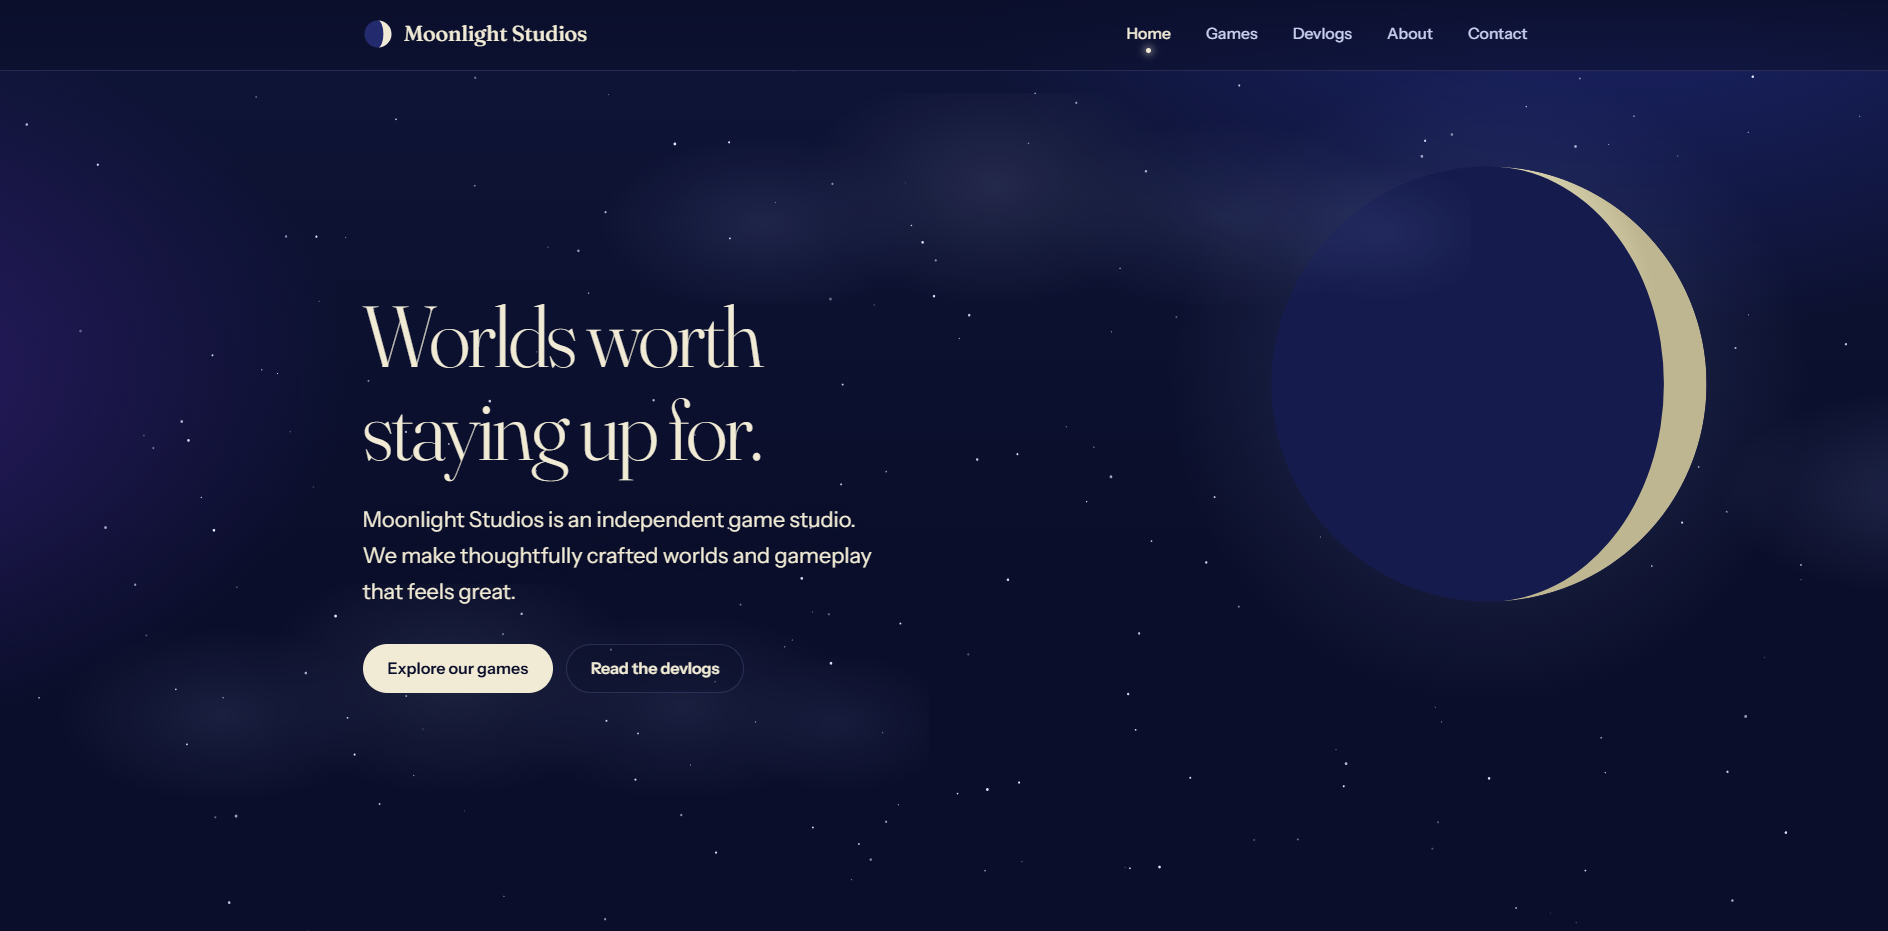
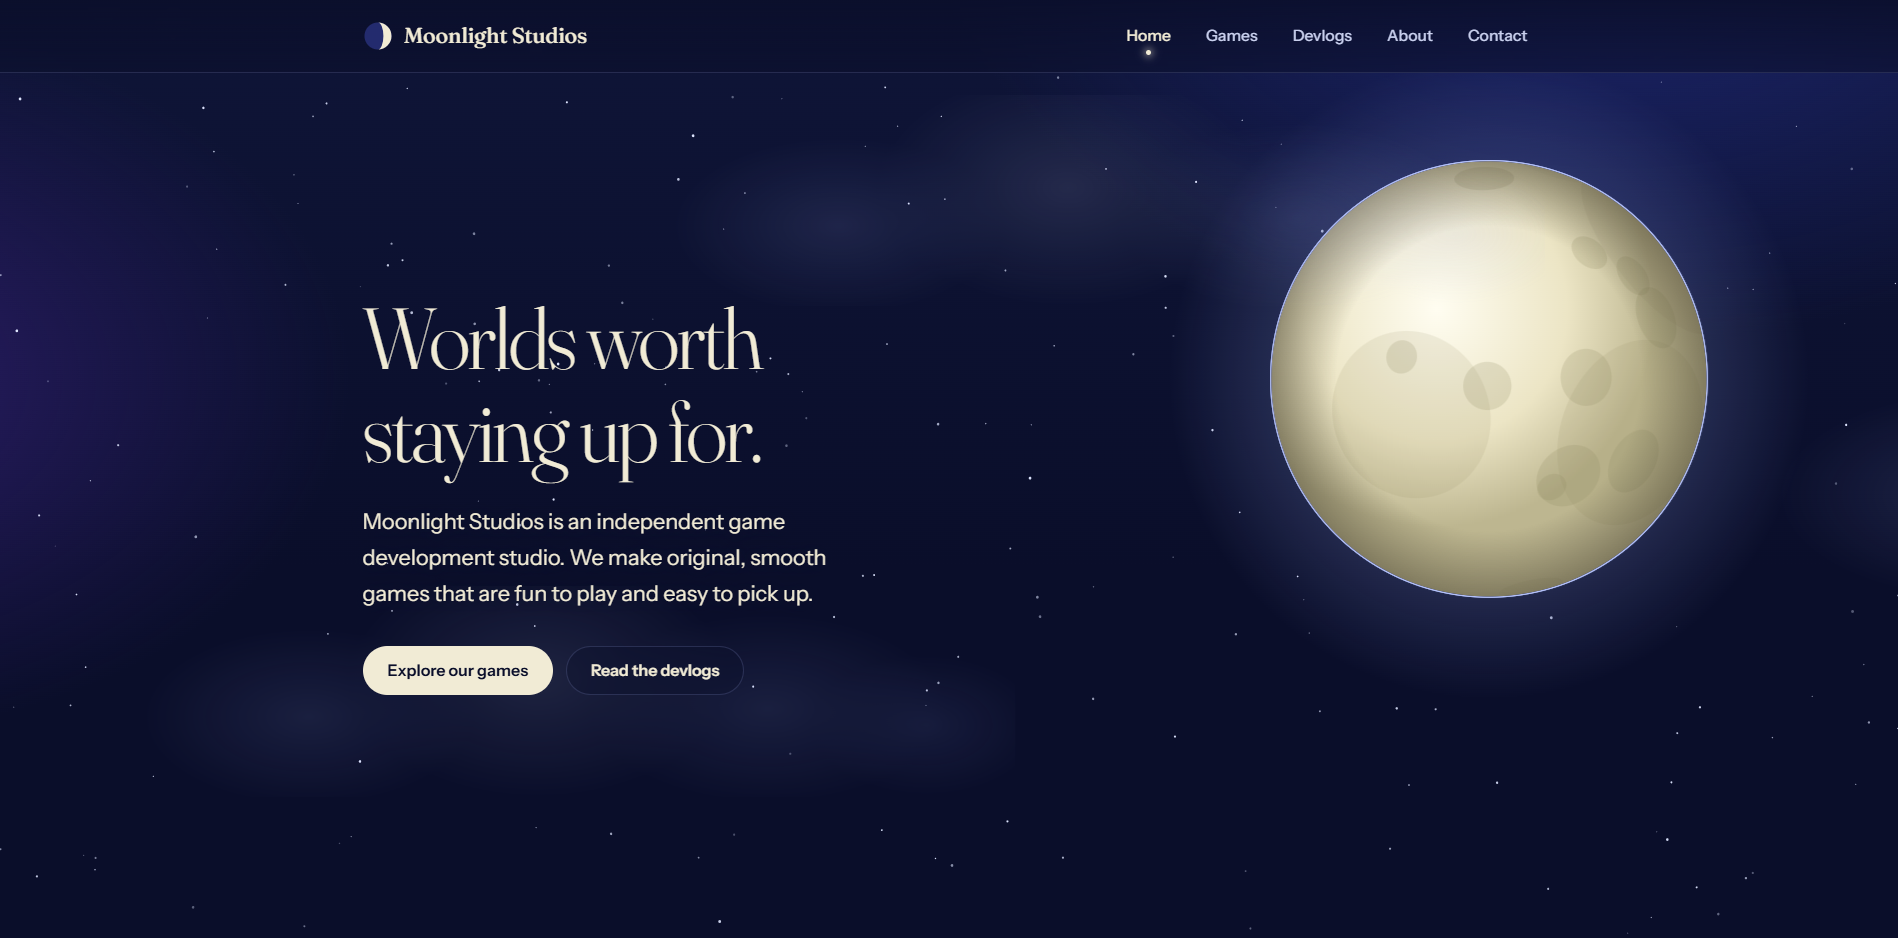
Add files via upload

diff --git a/privacy_policy.html b/privacy_policy.html
@@ -1,0 +1,71 @@
+<!doctype html>
+<html lang="en">
+<head>
+  <meta charset="utf-8">
+  <meta name="viewport" content="width=device-width, initial-scale=1, viewport-fit=cover">
+  <meta name="color-scheme" content="dark">
+  <title>Privacy Policy | Moonlight Studios</title>
+  <meta name="description" content="How Moonlight Studios handles your information.">
+  <meta name="theme-color" content="#0a0e2a">
+  <link rel="icon" href="images/logo.png">
+  <link rel="preconnect" href="https://fonts.googleapis.com">
+  <link rel="preconnect" href="https://fonts.gstatic.com" crossorigin>
+  <link href="https://fonts.googleapis.com/css2?family=Fraunces:ital,opsz,wght@0,9..144,300..700;1,9..144,300..700&family=Instrument+Sans:wght@400..700&display=swap" rel="stylesheet">
+  <link rel="stylesheet" href="css/style.css">
+</head>
+<body data-page="legal">
+  <main id="app">
+    <div class="container page-intro">
+      <h1>Privacy Policy</h1>
+      <p>Last updated: October 22, 2026</p>
+    </div>
+    <section class="section-tight container">
+      <article class="article" style="margin-left:0">
+        <p>This policy explains what information Moonlight Studios ("we", "us") collects through moonlightstudios.net, and what we do with it. We keep it short because we collect very little.</p>
+
+        <h2>What we collect</h2>
+        <p><strong>Messages you send us.</strong> If you use the contact form, we receive the name, email address, topic and message you type in. The form is handled by a service called Formspree, which passes your message on to our studio inbox.</p>
+        <p><strong>Basic technical data.</strong> Like every website, the servers that deliver this site (GitHub Pages) may log technical information such as your IP address, browser type and the pages requested. We don't have access to a personal profile built from this.</p>
+        <p>We don't run advertising, we don't sell your data, and we don't use analytics or tracking cookies on this site.</p>
+
+        <h2>How we use it</h2>
+        <ul>
+          <li>To read and reply to the messages you send us</li>
+          <li>To keep the website running and secure</li>
+        </ul>
+        <p>We don't use your email address for newsletters or marketing unless you clearly ask us to.</p>
+
+        <h2>Services that load on our pages</h2>
+        <ul>
+          <li><span><strong>Google Fonts</strong> loads the fonts on this site, so your browser connects to Google when a page opens.</span></li>
+          <li><span><strong>YouTube</strong> videos on game pages and devlogs use YouTube's privacy-enhanced mode. YouTube only gets involved if you press play.</span></li>
+          <li><span><strong>Formspree</strong> processes the contact form when you send a message.</span></li>
+          <li><span><strong>GitHub Pages</strong> hosts the website.</span></li>
+        </ul>
+        <p>These services have their own privacy policies, and we don't control how they handle data.</p>
+
+        <h2>Links to other sites</h2>
+        <p>Our pages link to itch.io, YouTube, Discord, X and other sites. Their privacy practices are their own. Please read their policies before you share personal information with them. When you play our games on itch.io, itch.io's policies apply to your account and downloads.</p>
+
+        <h2>How long we keep your messages</h2>
+        <p>We keep messages for as long as we need them to reply and to keep a record of the conversation. You can ask us to delete your message at any time.</p>
+
+        <h2>Your choices</h2>
+        <p>You can ask us what information we hold about you, ask us to correct it, or ask us to delete it. Use the <a href="contact/">contact page</a> and tell us what you'd like. Depending on where you live, you may have additional rights under local data protection law, and we will respect them.</p>
+
+        <h2>Children</h2>
+        <p>This site is not aimed at children under 13, and we don't knowingly collect personal information from them. If you think a child has sent us their details, contact us and we will delete them.</p>
+
+        <h2>Changes to this policy</h2>
+        <p>If we change this policy, we will update the date at the top of this page.</p>
+
+        <h2>Contact</h2>
+        <p>Questions about this policy? Reach us through the <a href="contact/">contact page</a>.</p>
+      </article>
+    </section>
+  </main>
+  <noscript><p style="padding:2rem;text-align:center">This site needs JavaScript turned on to show its menu and footer.</p></noscript>
+  <script src="js/data.js"></script>
+  <script src="js/main.js"></script>
+</body>
+</html>

diff --git a/terms_of_service.html b/terms_of_service.html
@@ -1,0 +1,63 @@
+<!doctype html>
+<html lang="en">
+<head>
+  <meta charset="utf-8">
+  <meta name="viewport" content="width=device-width, initial-scale=1, viewport-fit=cover">
+  <meta name="color-scheme" content="dark">
+  <title>Terms of Service | Moonlight Studios</title>
+  <meta name="description" content="The terms for using the Moonlight Studios website and games.">
+  <meta name="theme-color" content="#0a0e2a">
+  <link rel="icon" href="images/logo.png">
+  <link rel="preconnect" href="https://fonts.googleapis.com">
+  <link rel="preconnect" href="https://fonts.gstatic.com" crossorigin>
+  <link href="https://fonts.googleapis.com/css2?family=Fraunces:ital,opsz,wght@0,9..144,300..700;1,9..144,300..700&family=Instrument+Sans:wght@400..700&display=swap" rel="stylesheet">
+  <link rel="stylesheet" href="css/style.css">
+</head>
+<body data-page="legal">
+  <main id="app">
+    <div class="container page-intro">
+      <h1>Terms of Service</h1>
+      <p>Last updated: October 22, 2026</p>
+    </div>
+    <section class="section-tight container">
+      <article class="article" style="margin-left:0">
+        <p>Welcome to Moonlight Studios. By using moonlightstudios.net (the "site"), you agree to these terms. If you don't agree, please don't use the site.</p>
+
+        <h2>Using the site</h2>
+        <p>You can browse the site, read our devlogs and use links to our games for your own personal, non-commercial use. Please don't misuse the site: no attempts to break it, overload it, scrape it in bulk, or use it for anything illegal.</p>
+
+        <h2>Our games</h2>
+        <p>Our games are distributed through itch.io and other platforms. Your use of a game is governed by the page you download it from and by that platform's terms. Games are provided for your personal enjoyment and may contain bugs. We try to keep them polished, but we can't promise they will be error-free or work on every device.</p>
+
+        <h2>Our content</h2>
+        <p>The games, artwork, music, logos, text, screenshots and other material on this site belong to Moonlight Studios or are used with permission. You may not copy, sell or republish them without our written permission.</p>
+        <p>You are welcome to stream, record and share videos and screenshots of our games, including monetized ones, as long as you don't claim the game as your own. We love seeing that.</p>
+
+        <h2>Messages you send us</h2>
+        <p>When you contact us, you promise that the information you give is accurate and that your message doesn't break the law. Please don't send us spam, abuse, or material you don't have the right to share. We may ignore messages that do. Please also don't send game ideas or code you expect payment or credit for unless we've agreed on it first. We can't promise not to be working on something similar.</p>
+
+        <h2>Third-party links</h2>
+        <p>The site links to other sites, such as itch.io, YouTube, Discord and X. We don't control them and aren't responsible for what they contain or how they work.</p>
+
+        <h2>No warranties</h2>
+        <p>The site and its content are provided "as is" and "as available". We do our best to keep everything accurate and online, but we don't guarantee that the site will always be available, error-free or up to date.</p>
+
+        <h2>Limit of liability</h2>
+        <p>To the fullest extent the law allows, Moonlight Studios isn't liable for any indirect or consequential loss that comes from using the site or our games. Nothing in these terms limits any rights you have that can't legally be limited.</p>
+
+        <h2>Changes</h2>
+        <p>We may update these terms from time to time. The date at the top shows when they last changed, and continuing to use the site means you accept the new version.</p>
+
+        <h2>Privacy</h2>
+        <p>How we handle your information is explained in our <a href="privacy_policy.html">privacy policy</a>.</p>
+
+        <h2>Contact</h2>
+        <p>Questions about these terms? Reach us through the <a href="contact/">contact page</a>.</p>
+      </article>
+    </section>
+  </main>
+  <noscript><p style="padding:2rem;text-align:center">This site needs JavaScript turned on to show its menu and footer.</p></noscript>
+  <script src="js/data.js"></script>
+  <script src="js/main.js"></script>
+</body>
+</html>

diff --git a/about/index.html b/about/index.html
@@ -16,22 +16,22 @@
 <body data-page="about">
   <main id="app">
     <div class="container page-intro">
-      <h1>About the studio</h1>
+      <h1>About us</h1>
     </div>
 
     <section class="section-tight container">
-      <p class="lede">Moonlight Studios is a small independent game studio driven by a passion for making fun, memorable games.</p>
+      <p class="lede">We are a small indie team brought together by a shared love for making games.</p>
       <div class="prose" style="margin-top:2rem">
-        <p>We love experimenting with new ideas, refining every detail, and building experiences that players can enjoy. We make our games ourselves, and we write about how we make them in our <a class="text-link" href="../devlogs/">devlogs</a>.</p>
-        <p style="margin-top:1.1rem">Replace this paragraph with your own story: when the studio started, why you make games, and what you want players to feel.</p>
+        <p style="margin-top:1.1rem">Moonlight Studios started back in 2021. At the beginning, we were just testing out wild ideas, learning how to make games, and putting together small prototypes for game jams. That experimentation gave us the spark we needed, and we decided to form a real team. Shortly after, we released our first official title, <b>Super Pet Fighter.</b></p>
+        <p style="margin-top:1.1rem">As a young studio working with limited resources, we leaned heavily on passion, creativity, and steady learning. Over time, as our skills improved, our vision grew too. Today, we are tackling larger, more ambitious projects while staying true to what brought us together in the first place: making original, smooth games that players all over the world can pick up and enjoy.</p>
       </div>
     </section>
 
     <section class="section container" aria-labelledby="b-h">
       <h2 id="b-h" style="margin-bottom:2rem">How we make games</h2>
       <div class="beliefs">
-        <div><h3>Gameplay that feels great</h3><p>Controls and mechanics come first. If it isn't fun to pick up and play, nothing else matters.</p></div>
-        <div><h3>Details matter</h3><p>We keep refining until each trap, duel and screen does what it should.</p></div>
+        <div><h3>Gameplay comes first</h3><p>Controls and mechanics come first. If it isn't fun to pick up and play, nothing else matters.</p></div>
+        <div><h3>Details matter</h3><p>We keep refining until every trap, level and detail feels great.</p></div>
         <div><h3>Open about the process</h3><p>Every game has devlogs, so you can follow how it's made and tell us what you think.</p></div>
       </div>
     </section>
@@ -41,13 +41,6 @@
     </section>
 
     <section class="section container" aria-labelledby="t-h">
-      <h2 id="t-h" style="margin-bottom:1.6rem">The team</h2>
-      <div class="person">
-        <svg class="avatar" viewBox="0 0 20 20" aria-hidden="true"><circle cx="10" cy="10" r="10" fill="#232b6e"/><path d="M10 1A9 9 0 1 0 10 19A6 9 0 1 1 10 1Z" fill="#f1ebd5"/></svg>
-        <div><strong>Dimitrije</strong><span>Founder and developer</span></div>
-      </div>
-    </section>
-
     <section class="section-tight container">
       <div class="section-head"><h2>What we've made</h2><a class="text-link" href="../games/">Games page</a></div>
       <div class="game-grid" id="about-games"></div>
@@ -55,7 +48,7 @@
 
     <section class="section container">
       <div class="band">
-        <h2>Want to work with us, or just talk games?</h2>
+        <h2>Want to work with us or have a question?</h2>
         <a class="btn btn-moon" href="../contact/">Get in touch</a>
       </div>
     </section>

diff --git a/js/data.js b/js/data.js
@@ -38,7 +38,7 @@ const GAMES = [
     status: "In progress",
     statusKey: "progress",
     hue: 262,
-    tagline: "The action adventure, rebuilt from the ground up.",
+    tagline: "The action metroidvania,",
     short: "A fast-paced action adventure being rebuilt with improved gameplay, smoother mechanics and a fresh look.",
     description: [
       "A fast-paced action adventure currently being rebuilt from the ground up with improved gameplay, smoother mechanics, and a fresh new look.",
@@ -58,6 +58,7 @@ const GAMES = [
     cover: "images/games/wizardsbane/cover.png",
     hero: "images/games/wizardsbane/hero.png",
     logo: "images/games/wizardsbane/logo.png",
+    showcase: "images/games/wizardsbane/showcase.png",
     screenshots: [
       "images/games/wizardsbane/shot1.png",
       "images/games/wizardsbane/shot2.png",
@@ -94,6 +95,7 @@ const GAMES = [
     cover: "images/games/clonescape/cover.png",
     hero: "images/games/clonescape/hero.png",
     logo: "images/games/clonescape/logo.png",
+    showcase: "images/games/clonescape/hero.png",
     screenshots: [
       "images/games/clonescape/shot1.png",
       "images/games/clonescape/shot2.png",
@@ -162,18 +164,18 @@ const DEVLOGS = [
     slug: "welcome-to-the-new-site",
     game: "general",
     date: "2026-10-18",
-    title: "Welcome to the new Moonlight Studios site",
-    excerpt: "A new home for our games, and a place to follow along while we build them.",
+    title: "Welcome to the New Moonlight Studios Site!",
+    excerpt: "Welcome to the new home of Moonlight Studios! We built this website to bring everything we make into one place our games, our progress, and the stories behind how we build them.",
     cover: "images/devlogs/new_website_look.png",
     body: [
       { type: "p", text: "Welcome! This is the new home of Moonlight Studios. Every game we make now has its own page, and every devlog lives here too." },
-      { type: "h", text: "What you'll find here" },
+      { type: "h", text: "Here is a quick tour of what you’ll find on the site:" },
       { type: "list", items: [
-        "A page for every game, with screenshots, videos and a link to its itch.io page",
-        "Devlogs you can filter by game, or by studio news",
-        "The devlogs for each game, collected at the bottom of its page"
+        "Every game now has its own page complete with screenshots, gameplay trailers, and direct links to download or play on itch.io.",
+        "Looking for updates on a specific project? You can now filter devlogs by individual games or check out studio wide announcements.",
+        "Scroll down to the bottom of any game's page to catch up on every devlog written for that project from day one."
       ]},
-      { type: "p", text: "Sample text: replace this with your own announcement." }
+      { type: "p", text: "We want this space to be an open journal of our journey as game developers. Have a look around, check out what we're working on, and don't hesitate to jump into the devlogs to share your thoughts and feedback. Thanks for being here and following along!" }
     ]
   },
   {

diff --git a/js/main.js b/js/main.js
@@ -32,7 +32,7 @@
   const arr = (v) => (Array.isArray(v) ? v : v == null || v === "" ? [] : [v]);
   const DATA_SITE = Object.assign({ email: "", formEndpoint: "", replyTo: "" }, hasSite ? SITE : {});
   DATA_SITE.socials = DATA_SITE.socials || {};
-  const gameDefaults = { subtitle: "", status: "", statusKey: "upcoming", hue: 235, tagline: "", short: "", itch: "", cover: "", hero: "", logo: "" };
+  const gameDefaults = { subtitle: "", status: "", statusKey: "upcoming", hue: 235, tagline: "", short: "", itch: "", cover: "", hero: "", showcase: "", logo: "" };
   const DATA_GAMES = (hasGames ? arr(GAMES) : [])
     .filter((g, i) => { const ok = g && g.slug && g.title; if (!ok) problems.push(`GAMES entry #${i + 1} needs a slug and a title, so it was skipped.`); return ok; })
     .map((g) => Object.assign({}, gameDefaults, g, { description: arr(g.description), features: arr(g.features), facts: arr(g.facts), screenshots: arr(g.screenshots), videos: arr(g.videos) }));
@@ -391,7 +391,7 @@
     if (!el) return;
     el.innerHTML = `<div class="stage">${DATA_GAMES.map((g, i) => `
         <article class="slide${i ? "" : " on"}" aria-hidden="${i ? "true" : "false"}">
-          ${art(g.hero || g.cover, g.title, g.hue)}
+          ${art(g.showcase || g.hero || g.cover, g.title, g.hue)}
           <div class="slide-shade"></div>
           <div class="slide-copy">
             ${statusBadge(g)}
@@ -652,7 +652,7 @@
     const el = $("#about-stats");
     if (!el) return;
     const released = DATA_GAMES.filter((g) => g.statusKey === "released").length;
-    el.innerHTML = `<div><strong>${DATA_GAMES.length}</strong><span>games made</span></div><div><strong>${released}</strong><span>released</span></div><div><strong>${logs.length}</strong><span>devlogs written</span></div>`;
+    el.innerHTML = `<div><strong>${DATA_GAMES.length}</strong><span>games made</span></div><div><strong>${logs.length}</strong><span>devlogs written</span></div><div><strong>100%</strong><span>self-funded</span></div>`;
     const gl = $("#about-games");
     if (gl) gl.innerHTML = DATA_GAMES.map(posterCard).join("");
   }

diff --git a/index.html b/index.html
@@ -4,7 +4,7 @@
   <meta charset="utf-8">
   <meta name="viewport" content="width=device-width, initial-scale=1, viewport-fit=cover">
   <meta name="color-scheme" content="dark">
-  <title>Moonlight Studios | Independent Game Development</title>
+  <title>Moonlight Studios</title>
   <meta name="description" content="Moonlight Studios is an independent game studio making thoughtfully crafted worlds and gameplay that feels great.">
   <meta name="theme-color" content="#0a0e2a">
   <link rel="icon" href="images/logo.png">
@@ -18,7 +18,7 @@
     <section class="hero">
       <div class="container">
         <h1>Worlds worth staying up for.</h1>
-        <p class="hero-lead">Moonlight Studios is an independent game studio. We make thoughtfully crafted worlds and gameplay that feels great.</p>
+        <p class="hero-lead">Moonlight Studios is an independent game development studio. We make original, smooth games that are fun to play and easy to pick up.</p>
         <div class="btn-row">
           <a class="btn btn-moon" href="games/">Explore our games</a>
           <a class="btn btn-line" href="devlogs/">Read the devlogs</a>
@@ -42,14 +42,14 @@
     </section>
 
     <section class="section container" aria-labelledby="about-h">
-      <h2 id="about-h" class="sr-only">About the studio</h2>
-      <p class="lede">We're a small team that loves trying new ideas, polishing every detail, and building games people enjoy coming back to.</p>
-      <p style="margin-top:1.6rem"><a class="text-link" href="about/">About the studio</a></p>
+      <h2 id="about-h" class="sr-only">About us</h2>
+      <p class="lede">We are a small indie team brought together by a shared love for making games.</p>
+      <p style="margin-top:1.6rem"><a class="text-link" href="about/">About us</a></p>
     </section>
 
     <section class="section-tight container">
       <div class="band">
-        <h2>Got a question, or just want to say hi?</h2>
+        <h2>Want to work with us or have a question?</h2>
         <a class="btn btn-moon" href="contact/">Get in touch</a>
       </div>
     </section>

diff --git a/devlogs/index.html b/devlogs/index.html
@@ -5,7 +5,7 @@
   <meta name="viewport" content="width=device-width, initial-scale=1, viewport-fit=cover">
   <meta name="color-scheme" content="dark">
   <title>Devlogs | Moonlight Studios</title>
-  <meta name="description" content="Studio news and development notes from every Moonlight Studios game.">
+  <meta name="description" content="News and development notes from every Moonlight Studios game.">
   <meta name="theme-color" content="#0a0e2a">
   <link rel="icon" href="../images/logo.png">
   <link rel="preconnect" href="https://fonts.googleapis.com">

diff --git a/devlog/index.html b/devlog/index.html
@@ -4,7 +4,7 @@
   <meta charset="utf-8">
   <meta name="viewport" content="width=device-width, initial-scale=1, viewport-fit=cover">
   <meta name="color-scheme" content="dark">
-  <title>Devlog | Moonlight Studios</title>
+  <title>Moonlight Studios</title>
   <meta name="description" content="A devlog from Moonlight Studios.">
   <meta name="theme-color" content="#0a0e2a">
   <link rel="icon" href="../images/logo.png">

diff --git a/game/index.html b/game/index.html
@@ -4,7 +4,7 @@
   <meta charset="utf-8">
   <meta name="viewport" content="width=device-width, initial-scale=1, viewport-fit=cover">
   <meta name="color-scheme" content="dark">
-  <title>Game | Moonlight Studios</title>
+  <title>Moonlight Studios</title>
   <meta name="description" content="A game from Moonlight Studios.">
   <meta name="theme-color" content="#0a0e2a">
   <link rel="icon" href="../images/logo.png">

diff --git a/games/index.html b/games/index.html
@@ -17,7 +17,6 @@
   <main id="app">
     <div class="container page-intro">
       <h1>Our games</h1>
-      <p>Pick a game to see screenshots and videos, read its devlogs and play it on itch.io.</p>
     </div>
     <section class="section-tight container">
       <div class="chips" id="games-filters" role="group" aria-label="Filter games by status" style="margin-bottom:1.8rem"></div>

diff --git a/game-wizardsbane.html b/game-wizardsbane.html
@@ -2,7 +2,7 @@
 <html lang="en">
 <head>
   <meta charset="utf-8">
-  <title>Moved | Moonlight Studios</title>
+  <title>Moonlight Studios</title>
   <meta name="robots" content="noindex">
   <link rel="canonical" href="game/?g=wizardsbane">
   <meta http-equiv="refresh" content="0; url=game/?g=wizardsbane">

diff --git a/games.html b/games.html
@@ -2,7 +2,7 @@
 <html lang="en">
 <head>
   <meta charset="utf-8">
-  <title>Moved | Moonlight Studios</title>
+  <title>Moonlight Studios</title>
   <meta name="robots" content="noindex">
   <link rel="canonical" href="games/">
   <meta http-equiv="refresh" content="0; url=games/">
